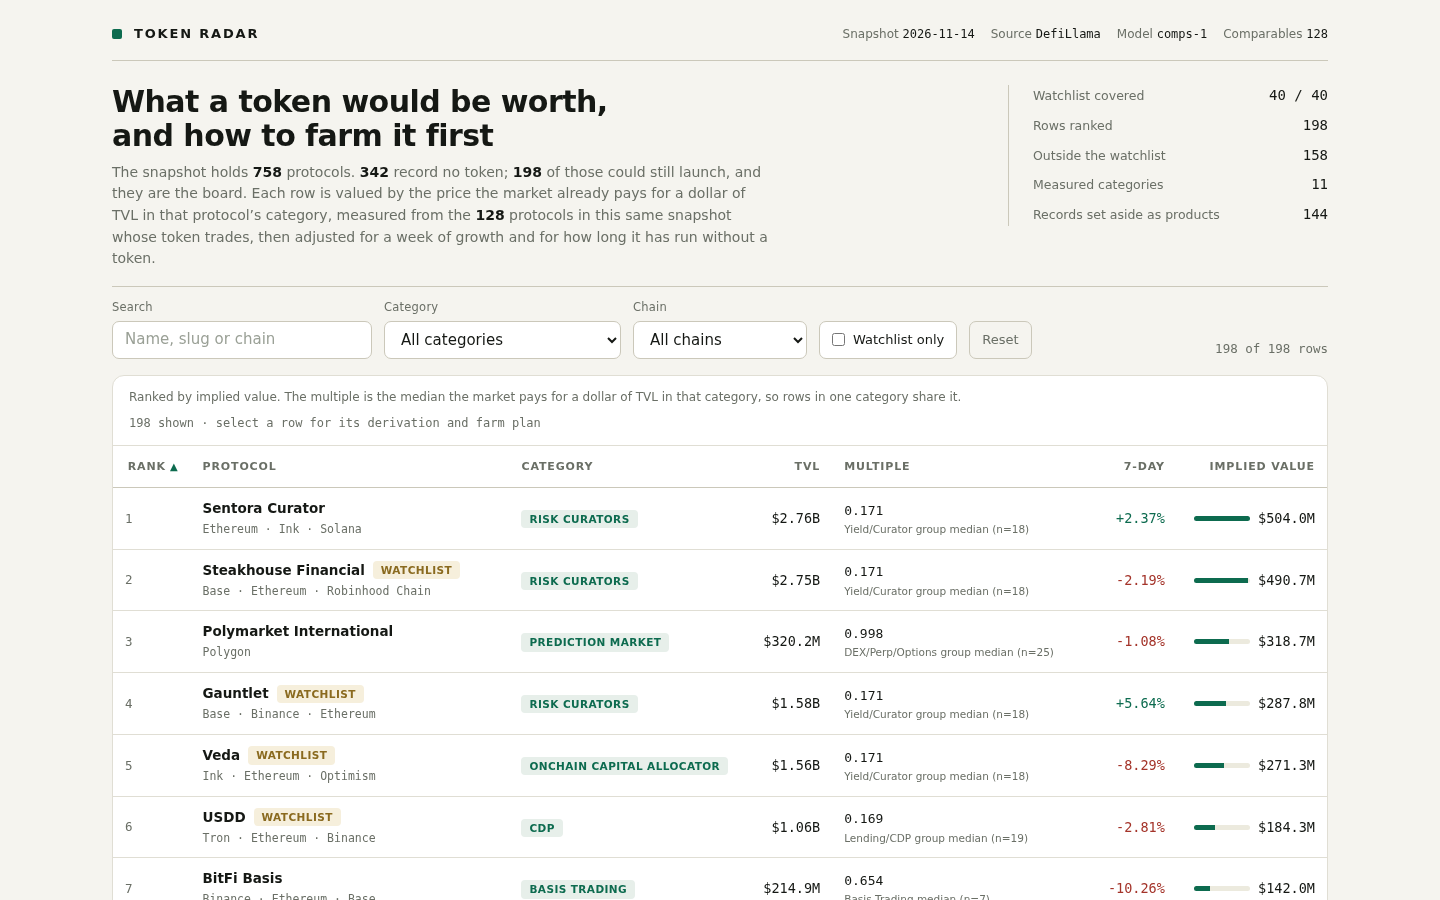
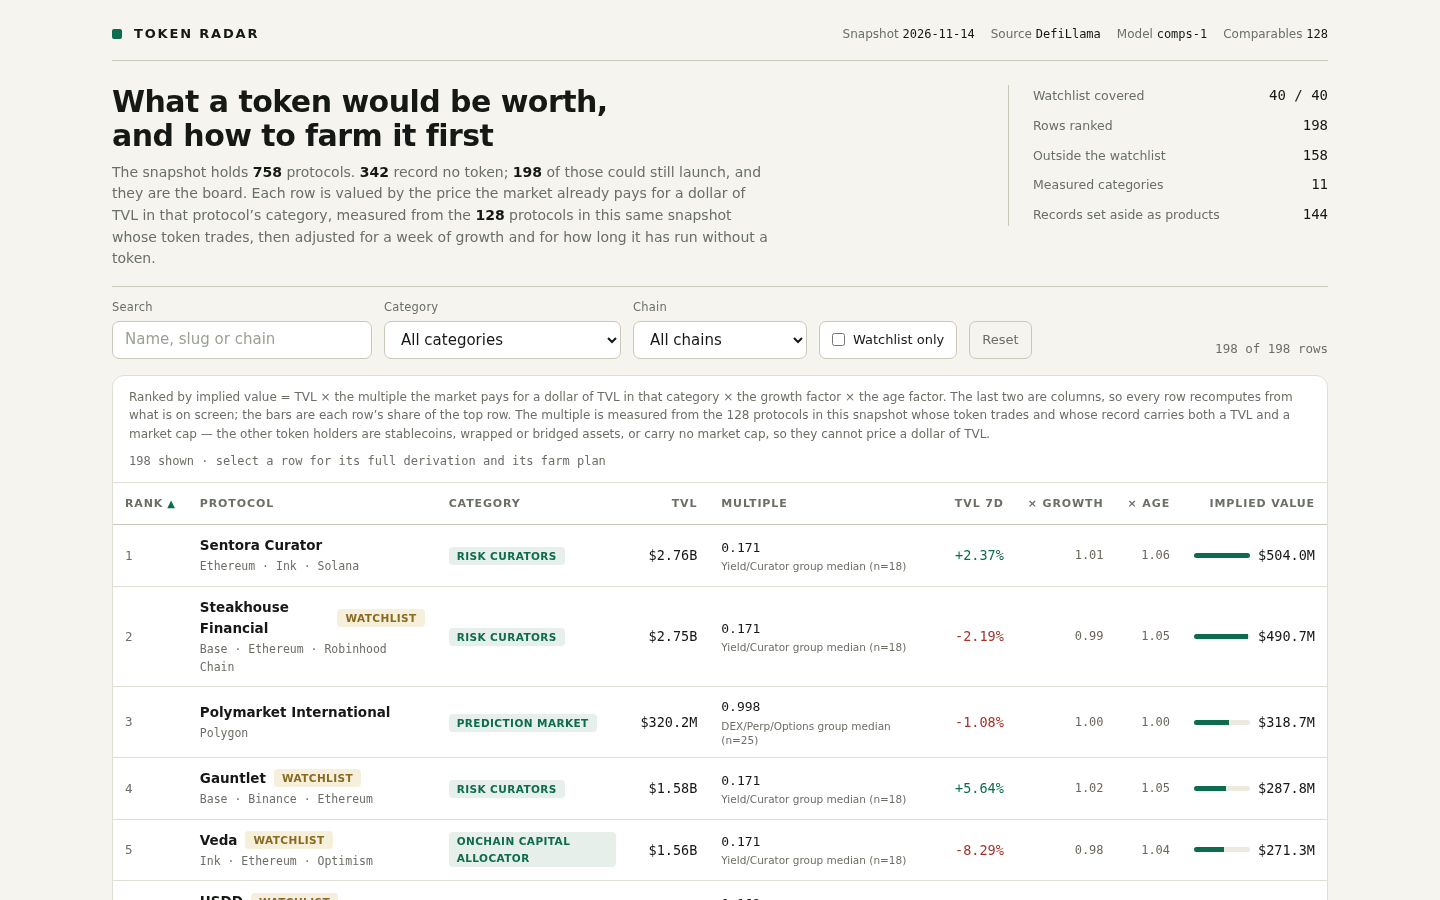
Show both adjustment factors on the board, and say what the comparables are

diff --git a/dashboard/app.js b/dashboard/app.js
@@ -27,6 +27,8 @@
   const pct = (n) => (n === null || n === undefined || !Number.isFinite(n) ? 'n/a' : (n > 0 ? '+' : '') + n.toFixed(2) + '%');
   const age = (d) => (d === null || d === undefined ? 'unknown' : d >= 365 ? (d / 365).toFixed(1) + 'y' : Math.round(d) + 'd');
   const mult = (x) => x.toFixed(3);
+  /** The two adjustment factors on the board: three decimals, the trailing one dropped when it is 0. */
+  const mult2 = (x) => (Number.isFinite(x) ? x.toFixed(2) : 'n/a');
 
   /* ---------- a small DOM builder ---------- */
 
@@ -69,6 +71,8 @@
     tvl: (r) => r.tvl_usd,
     multiple: (r) => r.multiple,
     growth: (r) => (r.change_7d === null ? -Infinity : r.change_7d),
+    growth_mult: (r) => r.growth_multiplier,
+    maturity_mult: (r) => r.maturity_multiplier,
     implied: (r) => r.implied_value_usd,
   };
 
@@ -197,14 +201,16 @@
         h('td', { class: 'num right', text: money(r.tvl_usd) }),
         h('td', null, h('div', { class: 'mult' }, h('b', { text: mult(r.multiple) }), h('span', { text: r.multiple_source }))),
         h('td', { class: 'num right ' + (r.change_7d === null ? '' : r.change_7d >= 0 ? 'pos' : 'neg'), text: pct(r.change_7d) }),
+        h('td', { class: 'num right adj', text: mult2(r.growth_multiplier) }),
+        h('td', { class: 'num right adj', text: mult2(r.maturity_multiplier) }),
         h('td', null, h('div', { class: 'value' },
           h('span', { class: 'bar', 'aria-hidden': 'true' }, h('i', { style: 'width:' + width + '%' })),
           h('span', { class: 'num', text: money(r.implied_value_usd) })))));
     }
     return h('div', { class: 'panel' },
       h('div', { class: 'caption' },
-        h('span', null, 'Ranked by implied value. The multiple is the median the market pays for a dollar of TVL in that category, so rows in one category share it.'),
-        h('span', { text: list.length + ' shown \u00b7 select a row for its derivation and farm plan' })),
+        h('span', null, 'Ranked by implied value = TVL \u00d7 the multiple the market pays for a dollar of TVL in that category \u00d7 the growth factor \u00d7 the age factor. The last two are columns, so every row recomputes from what is on screen; the bars are each row\u2019s share of the top row. The multiple is measured from the 128 protocols in this snapshot whose token trades and whose record carries both a TVL and a market cap \u2014 the other token holders are stablecoins, wrapped or bridged assets, or carry no market cap, so they cannot price a dollar of TVL.'),
+        h('span', { text: list.length + ' shown \u00b7 select a row for its full derivation and its farm plan' })),
       h('div', { class: 'table-wrap' },
       h('table', null,
         h('thead', null, h('tr', null,
@@ -213,7 +219,9 @@
           th('Category', 'category'),
           th('TVL', 'tvl', 'right'),
           th('Multiple', 'multiple'),
-          th('7-day', 'growth', 'right'),
+          th('TVL 7d', 'growth', 'right'),
+          th('\u00d7 Growth', 'growth_mult', 'right'),
+          th('\u00d7 Age', 'maturity_mult', 'right'),
           th('Implied value', 'implied', 'right'))),
         body)));
   }

diff --git a/dashboard/app.css b/dashboard/app.css
@@ -141,6 +141,7 @@ tbody tr[aria-selected="true"] td { background: var(--accent-wash); }
 .value { display: flex; align-items: center; gap: var(--s2); justify-content: flex-end; }
 .value .bar { width: 56px; height: 5px; border-radius: 3px; background: #eceade; overflow: hidden; flex: none; }
 .value .bar i { display: block; height: 100%; background: var(--accent); }
+.adj { color: var(--ink-soft, #6b665c); font-size: 12px; }
 .mult { display: grid; gap: 1px; min-width: 168px; }
 .mult b { font-family: var(--font-num); font-weight: 500; font-size: 13px; }
 .mult span { color: var(--muted); font-size: 10.5px; line-height: 1.35; }
